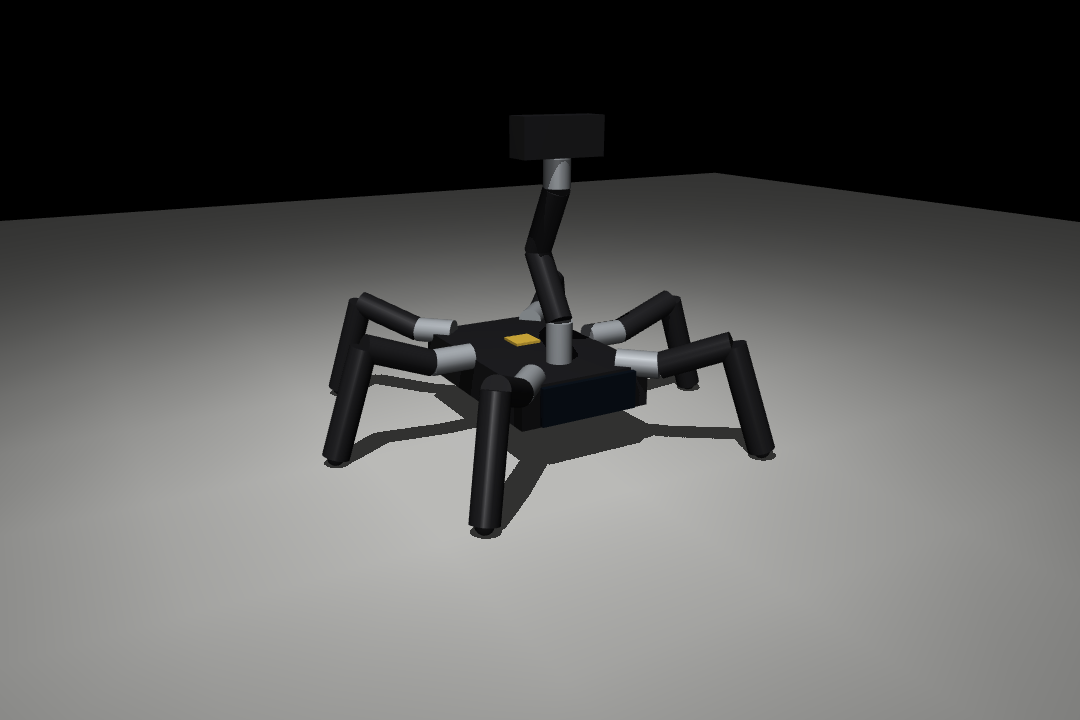
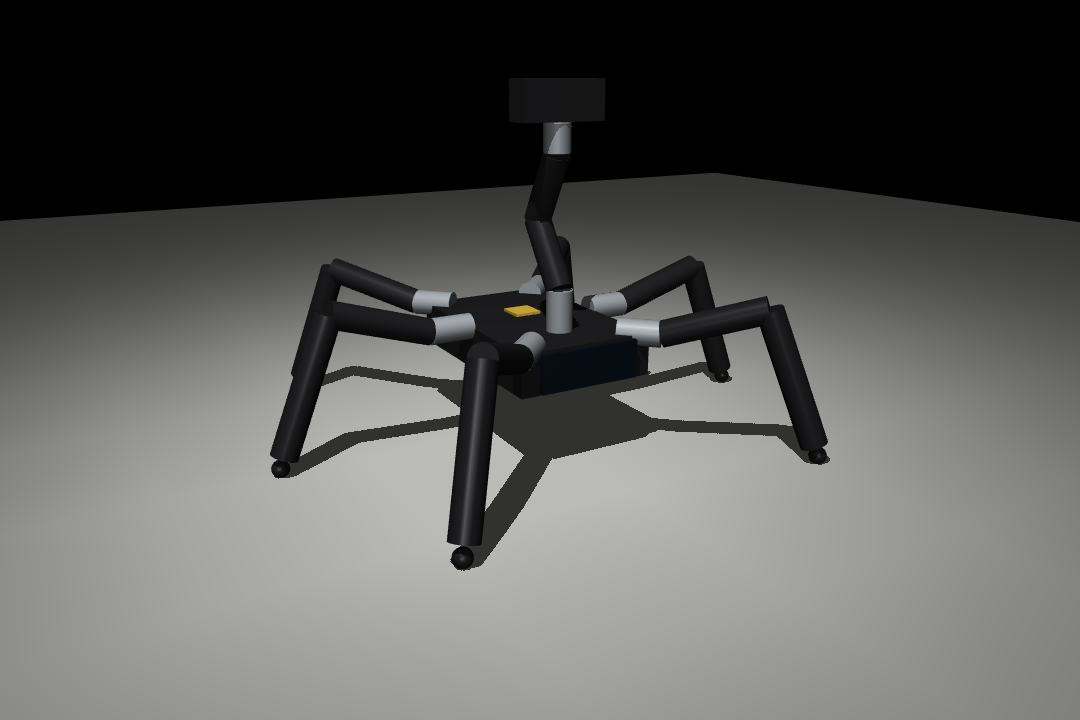
sim: the shin stops short of the foot ball; the stance check holds with position servos

Changed region(s): [[0.2444, 0.1528, 0.7639, 0.7944]]

diff --git a/sim/build.py b/sim/build.py
@@ -30,6 +30,8 @@ BODY_L, BODY_W, BODY_H = 0.230, 0.150, 0.045  # top-plate footprint and the dept
 BODY_MASS = 1.70  # plates, Jetson, battery pack, bus driver, consent module
 SERVO_MASS = 0.060  # one bus servo with its bracket
 SEG_R = 0.014  # radius of the leg / arm segment visuals
+FOOT_R = 0.009  # the foot ball
+SHIN_GAP = 0.012  # the shin cylinder ends this far above the foot joint, so the ball, not the rim, touches down
 
 # arm: yaw at the base, three pitch joints, camera head on the last link
 ARM_BASE = (0.060, 0.0, 0.0)  # where the arm sits on the top plate (body frame)
@@ -148,10 +150,13 @@ def build() -> str:
         klo, khi = lim.tibia
         joint(f"{n}_tibia", f"{n}_femur_link", f"{n}_tibia_link", (G.femur_m, 0, 0), (0, 0, 0), (0, -1, 0),
               (klo - math.pi, khi - math.pi))
-        link(f"{n}_tibia_link", 0.045, inertia_rod(0.045, G.tibia_m, SEG_R), rod(G.tibia_m),
-             origin=(G.tibia_m / 2, 0, 0), rpy=(0, math.pi / 2, 0))
+        # the shin cylinder stops short of the tip so that only the foot ball below it meets the ground;
+        # the kinematic length (where the foot joint sits) stays G.tibia_m
+        shin = G.tibia_m - SHIN_GAP
+        link(f"{n}_tibia_link", 0.045, inertia_rod(0.045, G.tibia_m, SEG_R), rod(shin),
+             origin=(shin / 2, 0, 0), rpy=(0, math.pi / 2, 0))
         # the foot is a small rubber ball: the contact point for simulators and the frame the IK solves for
-        link(f"{n}_foot", 0.006, (1e-7, 1e-7, 1e-7), '<sphere radius="0.009"/>', color="shell")
+        link(f"{n}_foot", 0.006, (1e-7, 1e-7, 1e-7), f'<sphere radius="{fmt(FOOT_R)}"/>', color="shell")
         joint(f"{n}_foot_tip", f"{n}_tibia_link", f"{n}_foot", (G.tibia_m, 0, 0))
         w()
 
@@ -197,14 +202,21 @@ def check(urdf_path: Path) -> None:
     floor = spec.worldbody.add_geom(name="floor", type=mujoco.mjtGeom.mjGEOM_PLANE, size=[2, 2, 0.1], rgba=[0.86, 0.86, 0.85, 1])
     floor.friction = [0.9, 0.01, 0.001]
     spec.worldbody.add_light(pos=[0.5, -0.5, 1.5], dir=[-0.3, 0.3, -1])
+    spec.option.integrator = mujoco.mjtIntegrator.mjINT_IMPLICITFAST
     body = spec.body("body")
     body.add_freejoint()
     body.pos = [0, 0, G.stance_height_m + 0.01]
+    # one position servo per hinge, the same model walk.py and stairs.py use
+    for j in spec.joints:
+        if j.type == mujoco.mjtJoint.mjJNT_HINGE:
+            a = spec.add_actuator(name=j.name, target=j.name, trntype=mujoco.mjtTrn.mjTRN_JOINT)
+            a.set_to_position(kp=16.0, kv=0.3)
     model = spec.compile()
     data = mujoco.MjData(model)
 
     def set_joint(name: str, value: float) -> None:
         data.qpos[model.joint(name).qposadr[0]] = value
+        data.ctrl[model.actuator(name).id] = value
 
     for i, leg in enumerate(LEG_NAMES):
         n = leg.lower()
@@ -217,9 +229,7 @@ def check(urdf_path: Path) -> None:
     set_joint("arm_wrist", -0.5)
     mujoco.mj_forward(model, data)
 
-    target = data.qpos[7:].copy()
     for _ in range(1500):
-        data.qfrc_applied[6:] = 8.0 * (target - data.qpos[7:]) - 0.3 * data.qvel[6:]
         mujoco.mj_step(model, data)
 
     roll, pitch = np.degrees(quat_to_rp(data.qpos[3:7]))
@@ -228,7 +238,7 @@ def check(urdf_path: Path) -> None:
     for l in LEG_NAMES:
         b = model.body(f"{l.lower()}_tibia_link").id
         tip = data.xpos[b] + data.xmat[b].reshape(3, 3) @ np.array([G.tibia_m, 0, 0])
-        feet_z.append(float(tip[2]) - 0.009)
+        feet_z.append(float(tip[2]) - FOOT_R)
     print(f"{model.njnt - 1} revolute joints, {model.nbody - 1} bodies, {float(sum(model.body_mass)):.2f} kg")
     print(f"body height {float(data.qpos[2]):.3f} m (stance {G.stance_height_m:.3f}), roll {roll:.1f} deg, pitch {pitch:.1f} deg")
     print("feet above floor (mm):", [round(z * 1000, 1) for z in feet_z])
